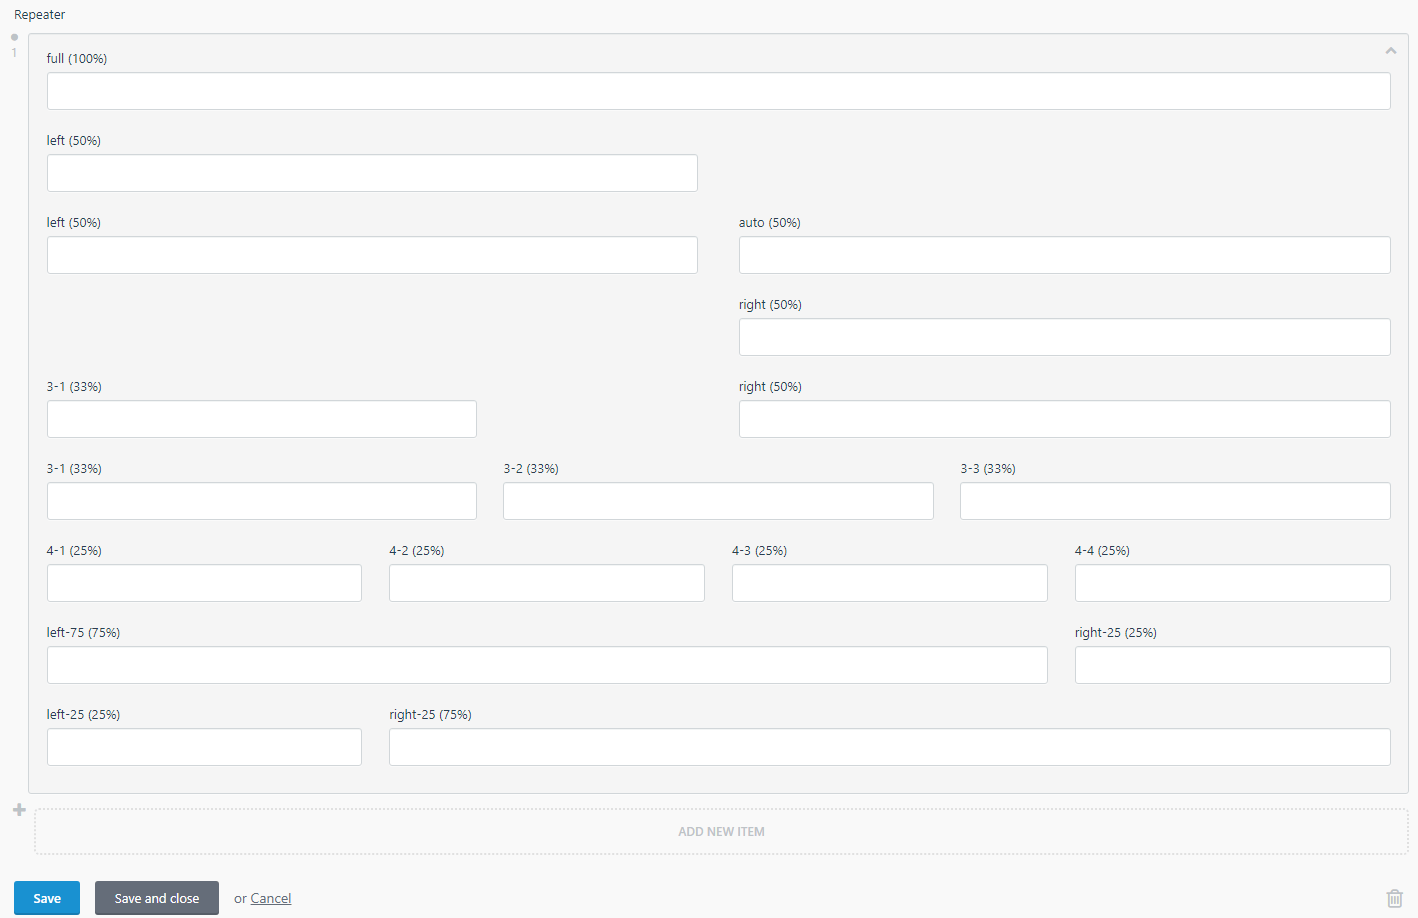
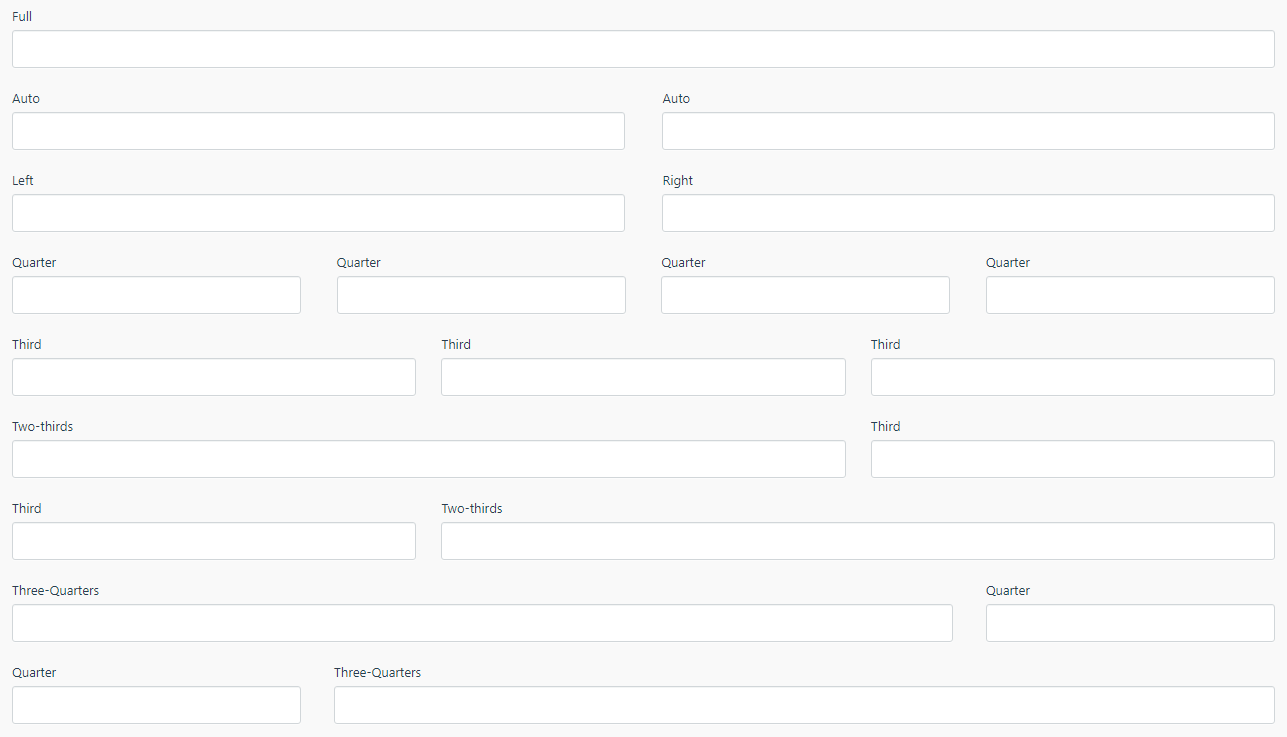
Add line-break api notes

diff --git a/backend-forms.md b/backend-forms.md
@@ -10,7 +10,8 @@
     - [Field options](#form-field-options)
     - [Dynamic heights](#dynamic-heights)
     - [Available span types](#span-types)
-    - [Downscaling rules for span types](#span-types-downscaling)	
+    - [Downscaling rules for span types](#span-types-downscaling)
+    - [Line breaks for fields](line-breaks)
 - [Available field types](#field-types)
 - [Form widgets](#form-widgets)
 - [Form views](#form-views)
@@ -302,8 +303,8 @@ full | 100% | whole width of conatiner
 left | 50% | left
 right | 50% | right
 auto | 50% | various
-third | 33% | various
 quarter | 25% | various
+third | 33% | various
 two-thirds | 66% | various
 three-quarters | 75% | various
 
@@ -329,6 +330,27 @@ two-thirds | above 769px | Allows 2 different sized fields (66% width and a spac
 two-thirds | below 769px | 1 field (100% width)
 three-quarters | above 769px | Allows 2 different sized fields (75% width and a space for a quarter size)
 three-quarters | below 769px | 1 field (100% width)
+
+<a name="line-breaks"></a>
+### Line breaks for fields
+
+You can set line breaks on the following fields accept line breaks: `quarter`, `third`, `two-thirds` and `three-quarters`.
+
+    # ===================================
+    #  Line break fields
+    # ===================================
+
+    lineBreak: left | right
+
+#### Line-break (left)
+
+![image](https://github.com/octobercms/docs/blob/master/images/line-break-left.png?raw=true) {.img-responsive .frame}
+
+#### Line-break (right)
+
+![image](https://github.com/octobercms/docs/blob/master/images/line-break-right.png?raw=true) {.img-responsive .frame}
+
+Note: `Full`, `auto`, `left` and `right` - do not accept line breaks.
 
 <a name="field-types"></a>
 ## Available field types
